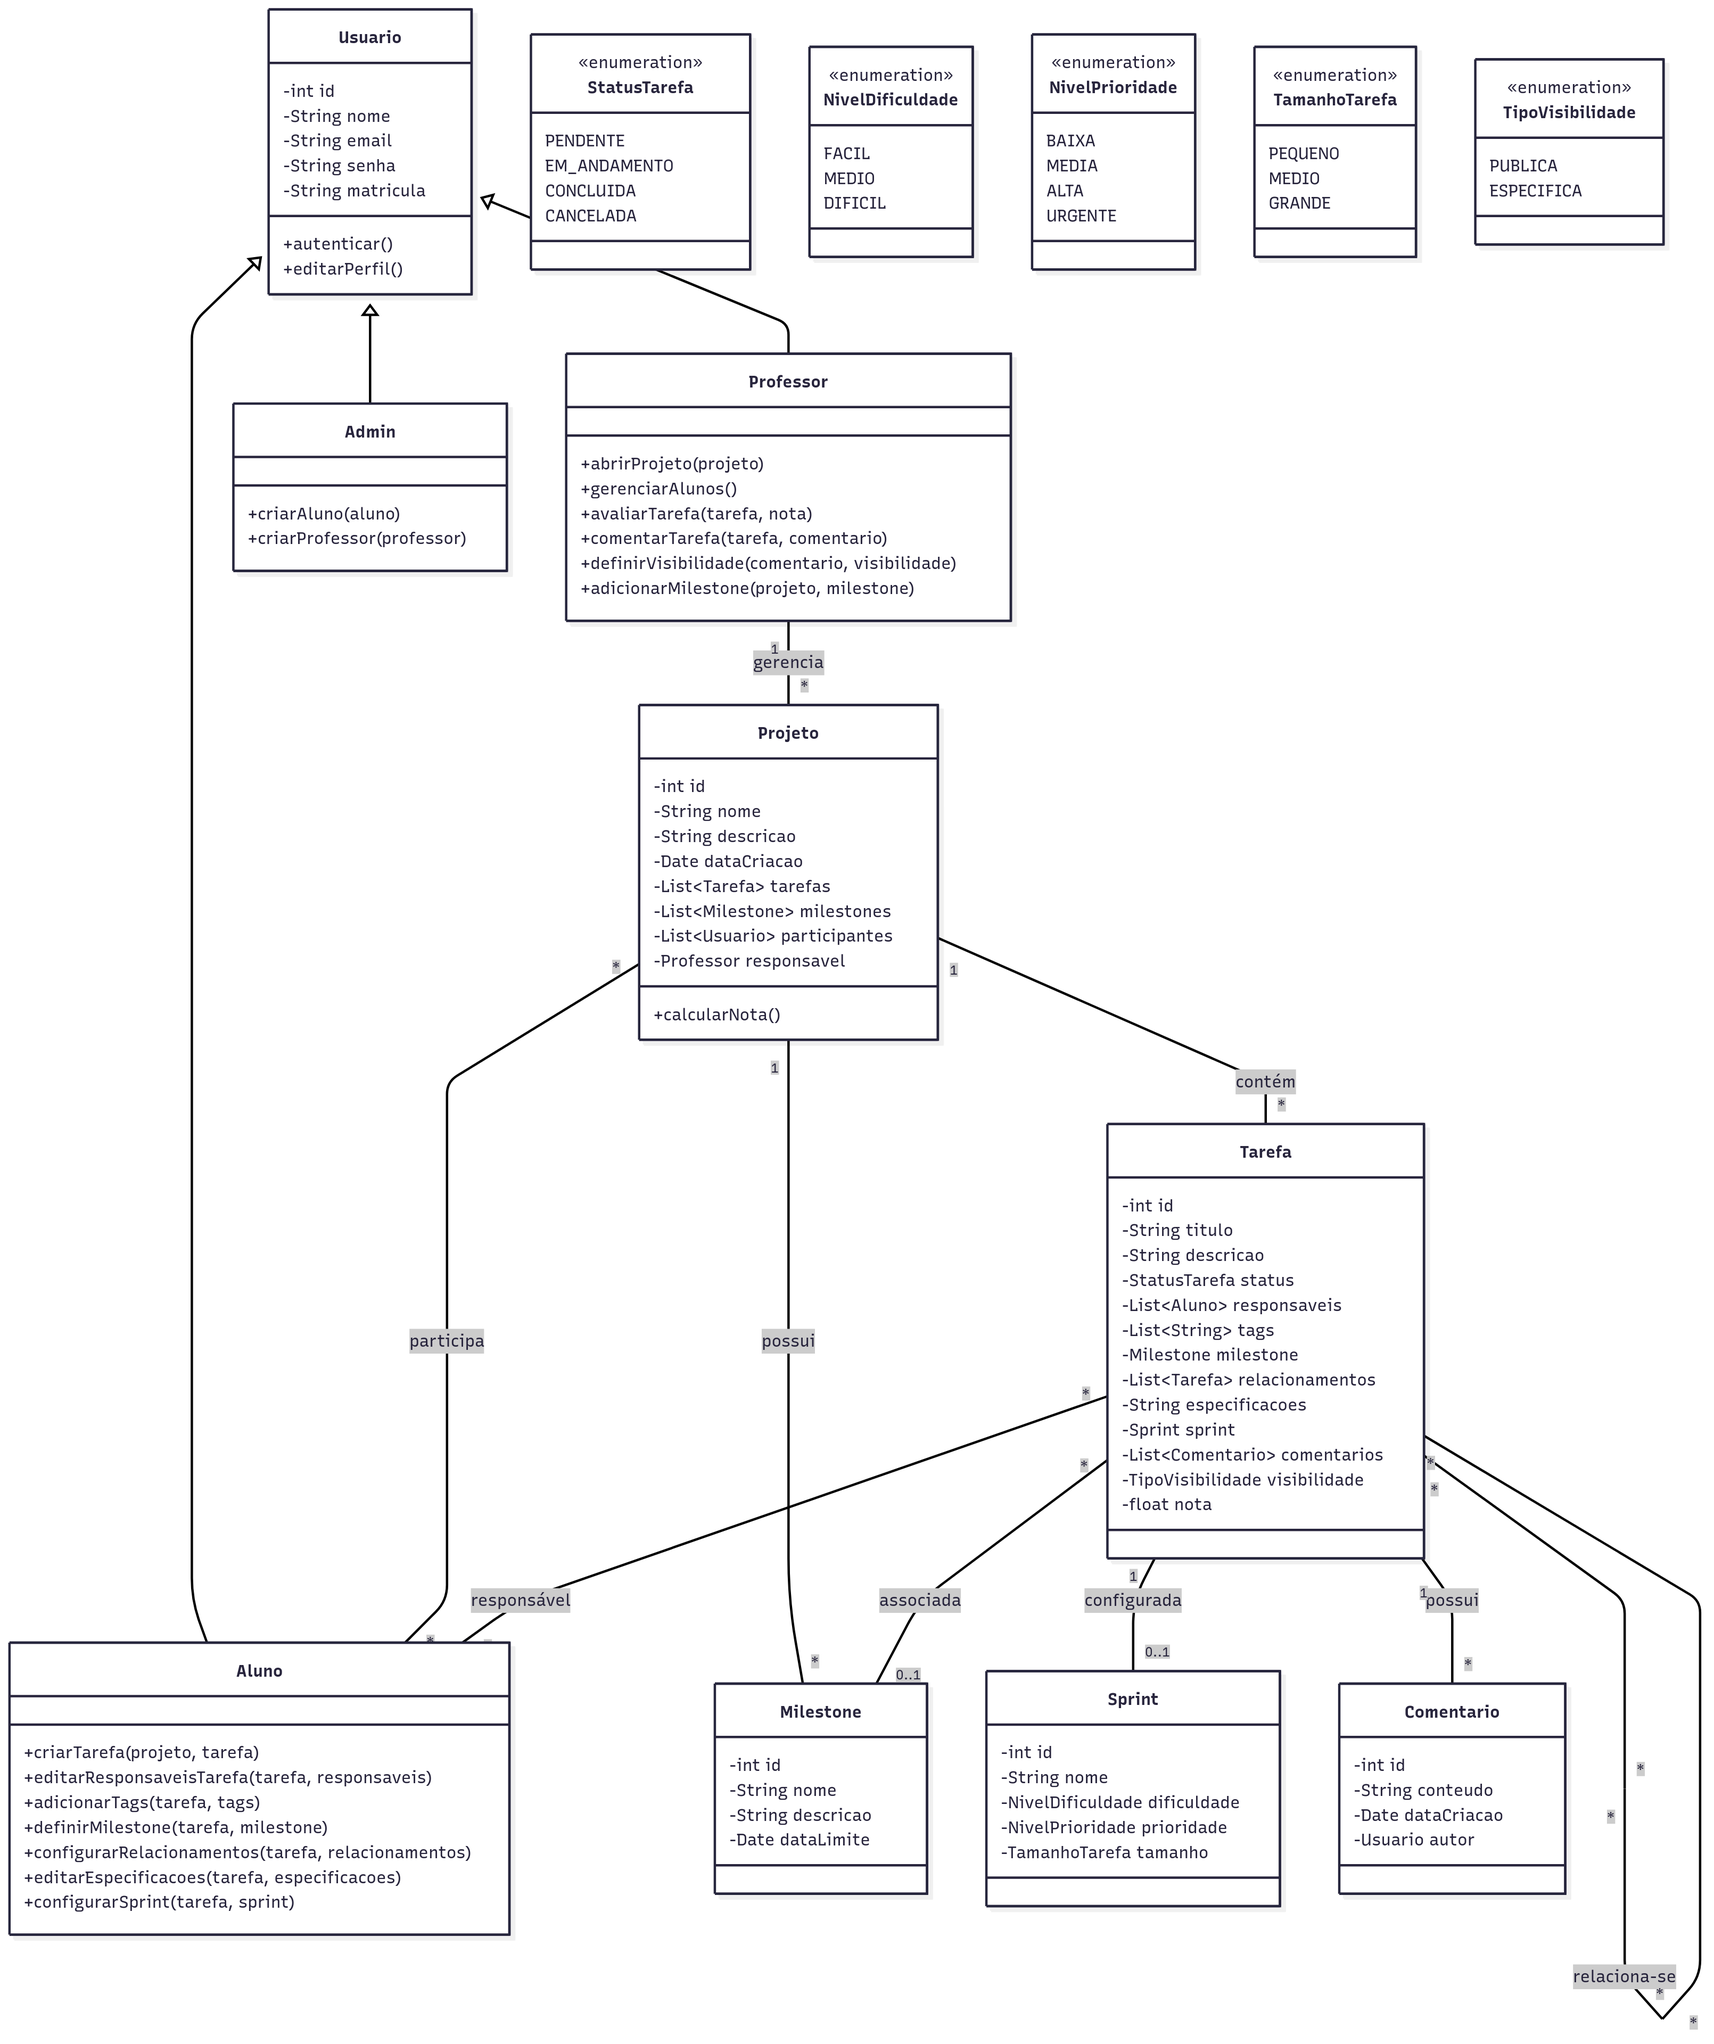
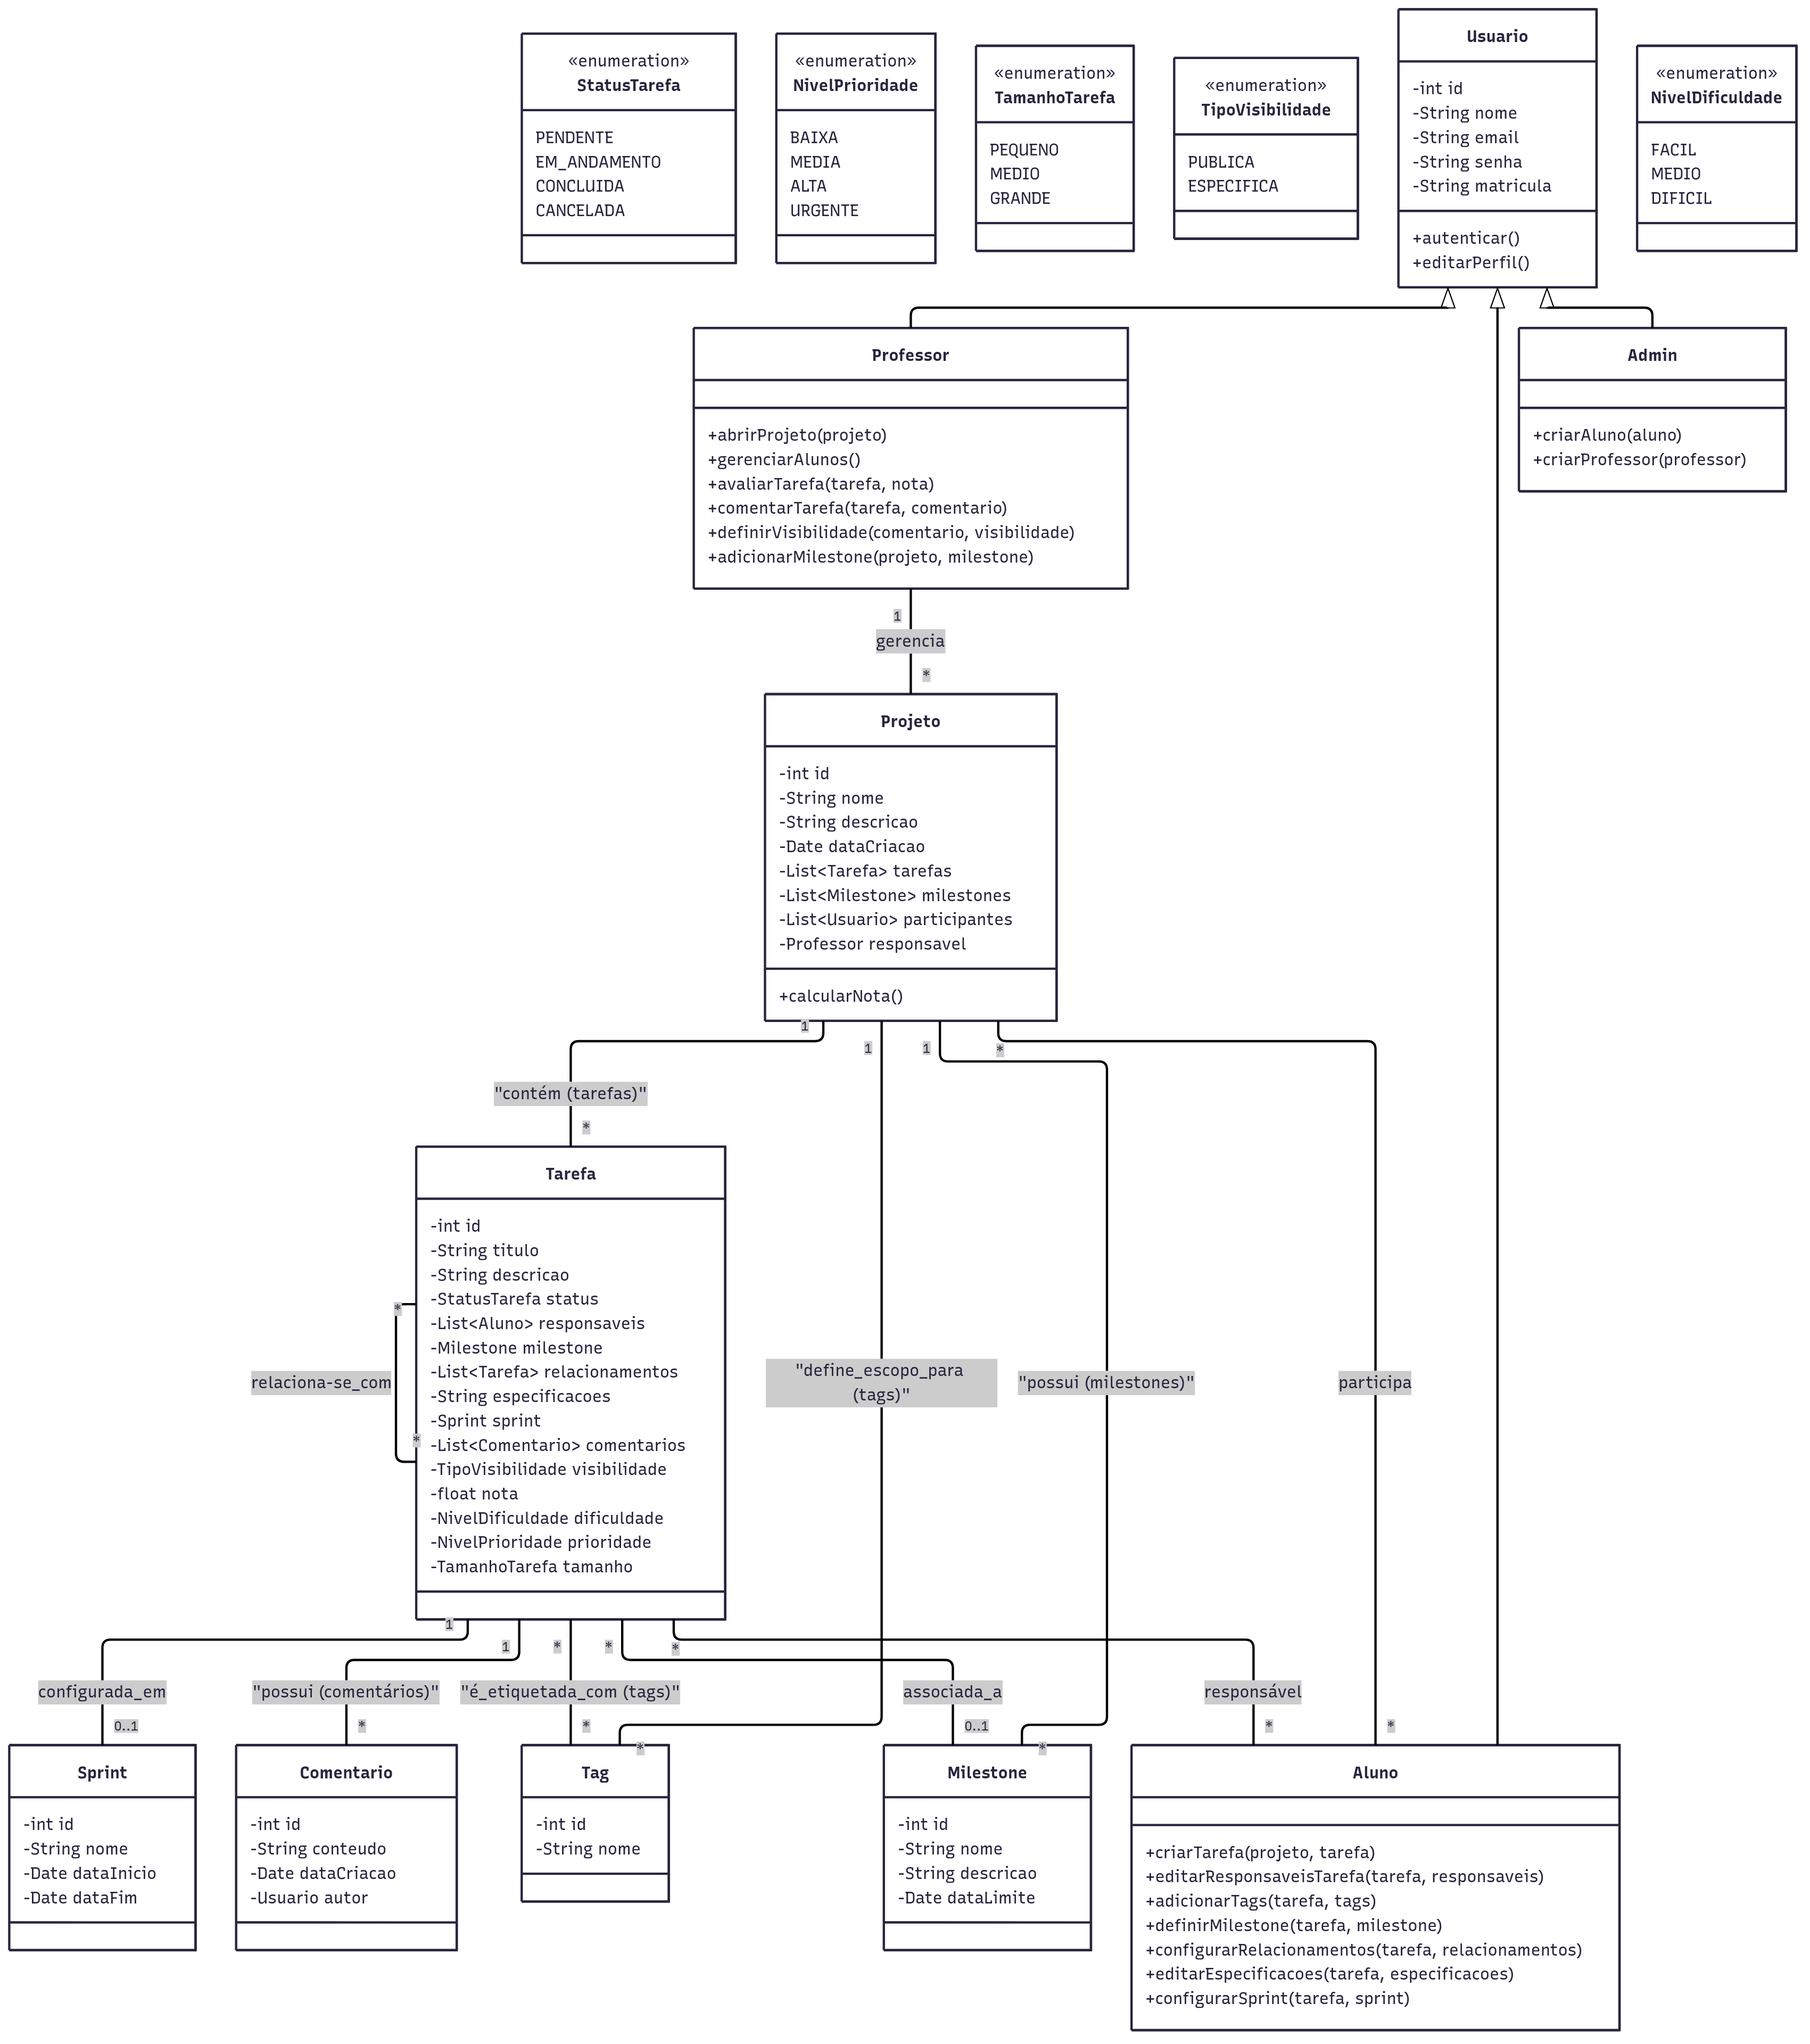
Criação dos models Tag, Milestone, Sprint, Tarefa e comentário. Diagrama de classes alterado pois foi percebido que é necessário uma classe Tag e também mudança de atributos que estavam em sprint para tarefas

diff --git a/learnloop/public/models.py b/learnloop/public/models.py
@@ -1,6 +1,8 @@
 # public/models.py
 from django.db import models
 from django.contrib.auth.models import AbstractUser
+from django.conf import settings
+from django.utils import timezone
 
 class UsuarioPersonalizado(AbstractUser):
 
@@ -130,3 +132,191 @@ class TamanhoTarefaChoices(models.TextChoices):
 class TipoVisibilidadeChoices(models.TextChoices):
     PUBLICA = 'PUBLICA', 'Pública'
     ESPECIFICA = 'ESPECIFICA', 'Específica (visível apenas para envolvidos)'
+
+#Classes do sistema
+class Tag(models.Model):
+    nome = models.CharField(max_length=100)
+    projeto = models.ForeignKey(
+        'Projeto',
+        on_delete=models.CASCADE,
+        related_name='tags_do_projeto'
+    ) # Trocar após implementar classe projeto (tirar aspas)
+
+    class Meta:
+        verbose_name = "Tag"
+        verbose_name_plural = "Tags"
+        unique_together = ('nome', 'projeto')
+        ordering = ['nome']
+
+    def __str__(self):
+        projeto_nome = self.projeto.nome if hasattr(self.projeto, 'nome') else str(self.projeto_id)
+        return f"{self.nome} (Projeto: {projeto_nome})"
+
+class Milestone(models.Model):
+    nome = models.CharField(
+        max_length=255
+    )
+    descricao = models.TextField(
+        blank=True,
+        null=True
+    )
+    data_limite = models.DateField()
+    projeto = models.ForeignKey(
+        'Projeto',
+        on_delete=models.CASCADE,
+        related_name='milestones'
+    ) # Trocar após implementar classe projeto
+
+    class Meta:
+        verbose_name = "Milestone"
+        verbose_name_plural = "Milestones"
+        ordering = ['data_limite', 'nome']
+
+    def __str__(self):
+        projeto_nome = self.projeto.nome if hasattr(self.projeto, 'nome') else str(self.projeto_id)
+        return f"{self.nome} (Projeto: {projeto_nome})"
+
+class Sprint(models.Model):
+    nome = models.CharField(
+        max_length=255
+    )
+    data_inicio = models.DateField(
+        null=True,
+        blank=True
+    )
+    data_fim = models.DateField(
+        null=True,
+        blank=True
+    )
+
+    class Meta:
+        verbose_name = "Sprint"
+        verbose_name_plural = "Sprints"
+        ordering = ['data_inicio', 'nome']
+
+    def __str__(self):
+        return self.nome
+
+class Tarefa(models.Model):
+    titulo = models.CharField(
+        max_length=255
+    )
+    descricao = models.TextField(
+        blank=True,
+        null=True
+    )
+    status = models.CharField(
+        max_length=20,
+        choices=StatusTarefaChoices.choices,
+        default=StatusTarefaChoices.PENDENTE
+    )
+    dificuldade = models.CharField(
+        max_length=20,
+        choices=NivelDificuldadeChoices.choices,
+        blank=True,
+        null=True
+    )
+    prioridade = models.CharField(
+        max_length=20,
+        choices=NivelPrioridadeChoices.choices,
+        blank=True,
+        null=True
+    )
+    tamanho = models.CharField(
+        max_length=20,
+        choices=TamanhoTarefaChoices.choices,
+        blank=True,
+        null=True
+    )
+    projeto = models.ForeignKey(
+        'Projeto',
+        on_delete=models.CASCADE,
+        related_name='tarefas'
+    ) # Trocar após implementar classe projeto
+    responsaveis = models.ManyToManyField(
+        settings.AUTH_USER_MODEL,
+        related_name='tarefas_responsaveis',
+        limit_choices_to={'tipo_usuario': 'aluno'},
+        blank=True
+    )
+    tags = models.CharField(
+        max_length=255,
+        blank=True,
+        null=True
+    )
+    milestone = models.ForeignKey(
+        Milestone,
+        on_delete=models.SET_NULL,
+        null=True, blank=True,
+        related_name='tarefas'
+    )
+    relacionamentos = models.ManyToManyField(
+        'self',
+        blank=True,
+        symmetrical=True
+    )
+    especificacoes = models.TextField(
+        blank=True,
+        null=True
+    )
+    sprint = models.ForeignKey(
+        Sprint,
+        on_delete=models.SET_NULL,
+        null=True,
+        blank=True,
+        related_name='tarefas'
+    )
+    visibilidade = models.CharField(
+        max_length=20,
+        choices=TipoVisibilidadeChoices.choices,
+        default=TipoVisibilidadeChoices.PUBLICA
+    )
+    nota = models.FloatField(
+        null=True,
+        blank=True
+    )
+    data_criacao = models.DateTimeField(
+        default=timezone.now
+    )
+    data_atualizacao = models.DateTimeField(
+        auto_now=True
+    )
+
+    class Meta:
+        verbose_name = "Tarefa"
+        verbose_name_plural = "Tarefas"
+        ordering = ['status', '-data_criacao', 'titulo']
+
+    def __str__(self):
+        projeto_nome = self.projeto.nome if hasattr(self.projeto, 'nome') else str(self.projeto_id)
+        return f"{self.titulo} (Projeto: {projeto_nome})"
+
+class Comentario(models.Model):
+    conteudo = models.TextField()
+    data_criacao = models.DateTimeField(
+        default=timezone.now
+    )
+    autor = models.ForeignKey(
+        settings.AUTH_USER_MODEL,
+        on_delete=models.SET_NULL,
+        null=True, related_name='comentarios_feitos'
+    )
+    tarefa = models.ForeignKey(
+        Tarefa,
+        on_delete=models.CASCADE,
+        related_name='comentarios'
+    )
+    visibilidade = models.CharField(
+        max_length=20,
+        choices=TipoVisibilidadeChoices.choices,
+        default=TipoVisibilidadeChoices.PUBLICA
+    )
+
+    class Meta:
+        verbose_name = "Comentário"
+        verbose_name_plural = "Comentários"
+        ordering = ['-data_criacao']
+
+    def __str__(self):
+        data_formatada = self.data_criacao.strftime('%d/%m/%Y %H:%M') if self.data_criacao else "Data Desconhecida"
+        return f"Comentário de {self.autor} em '{self.tarefa.titulo}' ({data_formatada})"
